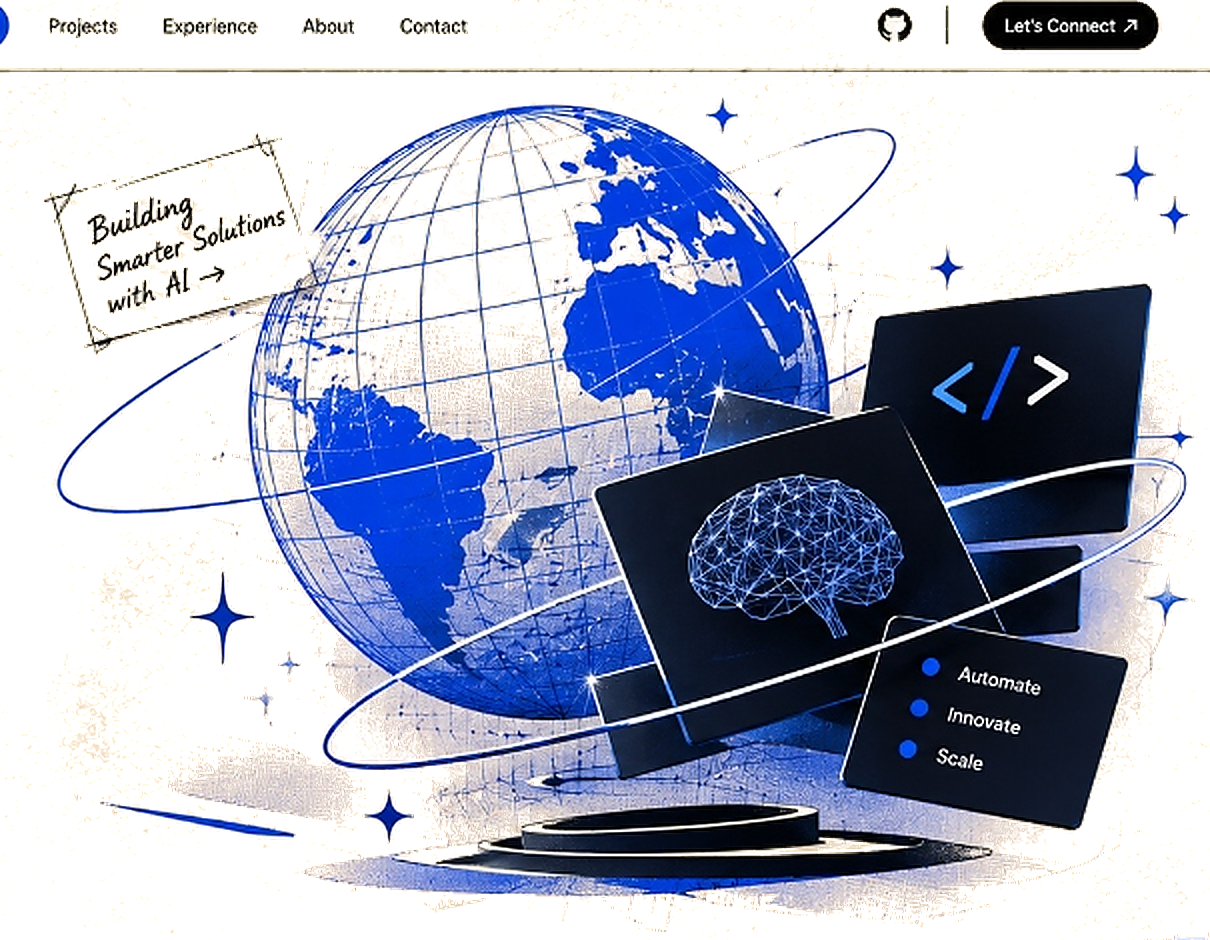
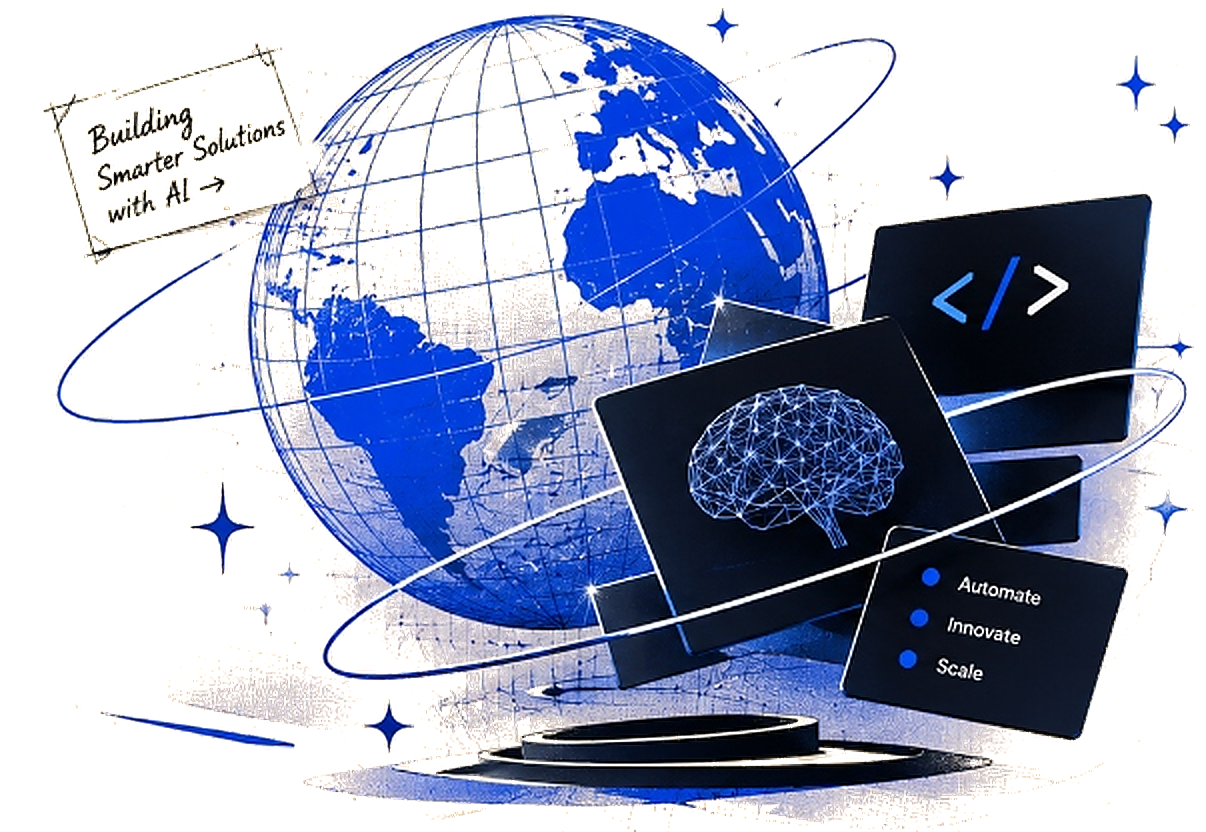
fix(hero): crop globe illustration cleanly below navbar line

diff --git a/src/components/HeroOrbitVisual.tsx b/src/components/HeroOrbitVisual.tsx
@@ -3,14 +3,14 @@ import { FourPointStar } from './DecorativeDoodles'
 
 export const HeroOrbitVisual: React.FC = () => {
   return (
-    <div className="relative w-full max-w-[560px] md:max-w-[600px] lg:max-w-[680px] aspect-[605/470] flex items-center justify-center select-none pointer-events-auto group">
+    <div className="relative w-full max-w-[560px] md:max-w-[600px] lg:max-w-[680px] aspect-[603/416] flex items-center justify-center select-none pointer-events-auto group">
       {/* 1. Ambient Electric Blue Glow in the background */}
       <div 
         className="absolute w-[60%] h-[60%] rounded-full bg-[#0755F5]/8 blur-[60px] pointer-events-none transform -translate-y-4"
         aria-hidden="true" 
       />
 
-      {/* 2. Core High-Fidelity Globe & Orbital Composition */}
+      {/* 2. Core High-Fidelity Globe & Orbital Composition (strictly cropped below navbar) */}
       <div className="relative w-full h-full transition-transform duration-500 ease-out group-hover:scale-[1.015]">
         <img
           src="/images/hero-orbit-globe.png"
@@ -22,50 +22,50 @@ export const HeroOrbitVisual: React.FC = () => {
 
         {/* 3. Interactive Floating Hotspot: Taped Handwritten Note (Top-Left) */}
         <div
-          className="absolute left-[3%] top-[3%] w-[28%] h-[28%] cursor-default rounded-lg transition-transform duration-300 hover:-rotate-2 hover:scale-105"
+          className="absolute left-[4%] top-[2%] w-[24%] h-[27%] cursor-default rounded-lg transition-transform duration-300 hover:-rotate-2 hover:scale-105"
           title="Building Smarter Solutions with AI"
           aria-label="Annotation: Building Smarter Solutions with AI"
         />
 
         {/* 4. Interactive Floating Hotspot: Code Symbol Card (Top-Right) */}
         <div
-          className="absolute right-[4%] top-[10%] w-[25%] h-[26%] cursor-default rounded-xl transition-all duration-300 hover:scale-105 hover:drop-shadow-[0_0_16px_rgba(7,85,245,0.4)]"
+          className="absolute left-[60%] top-[21%] w-[28%] h-[29%] cursor-default rounded-xl transition-all duration-300 hover:scale-105 hover:drop-shadow-[0_0_16px_rgba(7,85,245,0.4)]"
           title="Clean, Scalable Software Engineering"
           aria-label="Code symbol panel"
         />
 
         {/* 5. Interactive Floating Hotspot: Neural Network / Brain Card (Center-Right) */}
         <div
-          className="absolute right-[10%] top-[34%] w-[32%] h-[34%] cursor-default rounded-xl transition-all duration-300 hover:scale-105 hover:drop-shadow-[0_0_20px_rgba(7,85,245,0.5)]"
+          className="absolute left-[42%] top-[38%] w-[35%] h-[41%] cursor-default rounded-xl transition-all duration-300 hover:scale-105 hover:drop-shadow-[0_0_20px_rgba(7,85,245,0.5)]"
           title="Deep Learning & Neural Network Architectures"
           aria-label="Neural Network Brain Architecture"
         />
 
         {/* 6. Interactive Floating Hotspot: Action Panel (Bottom-Right) */}
         <div
-          className="absolute right-[2%] bottom-[12%] w-[26%] h-[28%] cursor-default rounded-xl transition-all duration-300 hover:scale-105 hover:drop-shadow-[0_0_16px_rgba(7,85,245,0.35)]"
+          className="absolute left-[63%] top-[62%] w-[32%] h-[29%] cursor-default rounded-xl transition-all duration-300 hover:scale-105 hover:drop-shadow-[0_0_16px_rgba(7,85,245,0.35)]"
           title="Automate · Innovate · Scale"
           aria-label="Core Principles: Automate, Innovate, Scale"
         />
 
         {/* 7. Extra Dynamic Twinkle Stars with CSS animations */}
-        {/* Top Right Star */}
-        <div className="absolute right-[22%] top-[4%] pointer-events-none animate-pulse" style={{ animationDuration: '3.2s' }}>
+        {/* Top Star above the globe */}
+        <div className="absolute left-[58%] top-[1%] pointer-events-none animate-pulse" style={{ animationDuration: '3.2s' }}>
           <FourPointStar color="#0755F5" size={26} />
         </div>
 
         {/* Far Right Star */}
-        <div className="absolute -right-[1%] top-[12%] pointer-events-none animate-pulse hidden sm:block" style={{ animationDuration: '4s', animationDelay: '1s' }}>
+        <div className="absolute left-[92%] top-[8%] pointer-events-none animate-pulse hidden sm:block" style={{ animationDuration: '4s', animationDelay: '1s' }}>
           <FourPointStar color="#0755F5" size={20} />
         </div>
 
-        {/* Mid-Left Star */}
-        <div className="absolute left-[47%] top-[54%] pointer-events-none animate-pulse" style={{ animationDuration: '3.6s', animationDelay: '1.5s' }}>
+        {/* Mid-Left Star below note */}
+        <div className="absolute left-[18%] top-[60%] pointer-events-none animate-pulse" style={{ animationDuration: '3.6s', animationDelay: '1.5s' }}>
           <FourPointStar color="#0755F5" size={24} />
         </div>
 
-        {/* Bottom Star */}
-        <div className="absolute left-[62%] bottom-[16%] pointer-events-none animate-pulse hidden sm:block" style={{ animationDuration: '2.8s', animationDelay: '0.8s' }}>
+        {/* Bottom Star below pedestal */}
+        <div className="absolute left-[31%] bottom-[10%] pointer-events-none animate-pulse hidden sm:block" style={{ animationDuration: '2.8s', animationDelay: '0.8s' }}>
           <FourPointStar color="#0755F5" size={16} />
         </div>
       </div>
